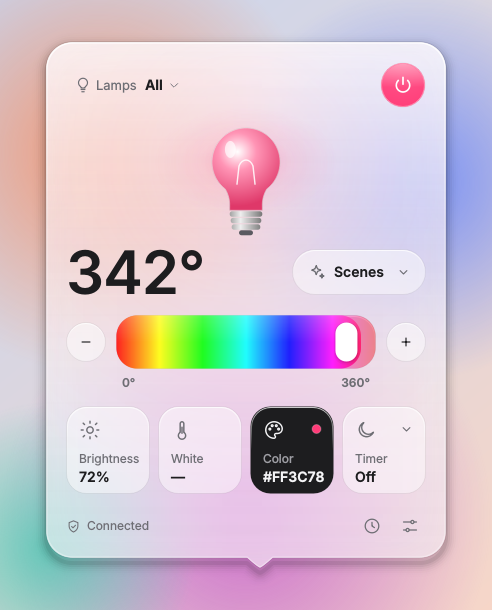
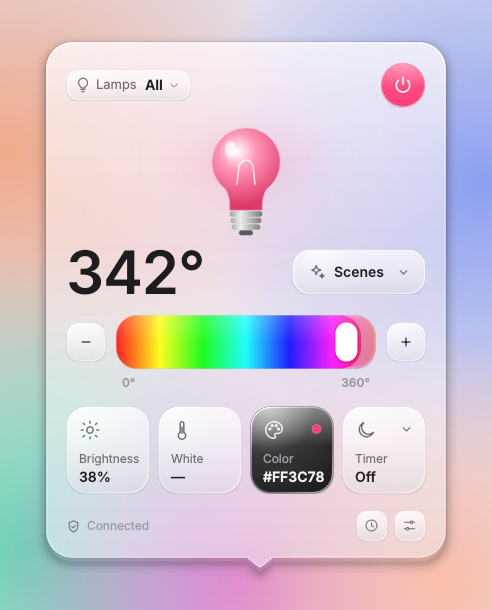
Botões de vidro líquido e correção da repintura do painel
- Botões viram quadrados de cantos arredondados com visual de vidro líquido
  (reflexo especular, sombra interna, borda iluminada na diagonal): −/+, Cenas,
  seletor de lâmpadas, ícones do rodapé e cards de modo. O liga/desliga continua redondo.
- CircleButton vira SquareButton; novas cores CARD_SPEC e CARD_SHADE no tema.
- Painel: limpa a área antes de pintar (repinturas parciais somavam vidro
  translúcido e deixavam retângulos escuros/furos na aba de cores), fundo
  desfocado opaco e margem de captura maior que o desfoque.
- BulbView e PowerButton não repintam quando o estado não mudou.
- Screenshots do README regenerados. Correção do Windows não testada aqui.

Claude-Session: https://claude.ai/code/session_01DqCb28tFSMJtDtkHMxVeCV

diff --git a/lampdesk/ui/widgets.py b/lampdesk/ui/widgets.py
@@ -36,24 +36,63 @@ def _painter(w) -> QPainter:
 
 def paint_glass(p: QPainter, path: QPainterPath, rect: QRectF, fill: QColor, border: QColor = None,
                 rim: QColor = None):
-    """Cápsula de vidro: preenchimento translúcido, contorno fino e borda iluminada no topo."""
-    p.setPen(QPen(border or theme.CARD_BORDER, 1))
+    """Vidro líquido: corpo translúcido, reflexo especular, sombra interna e borda iluminada.
+
+    A luz vem do canto superior esquerdo: a borda brilha ali e, mais fraca, no canto oposto,
+    como nos controles do iOS. Tudo é translúcido para o fundo desfocado aparecer por baixo.
+    """
+    spec, shade = theme.CARD_SPEC, theme.CARD_SHADE
+    p.save()
+    p.setPen(Qt.PenStyle.NoPen)
+
+    # sombra de contato, só do lado de fora (o corpo é translúcido e não pode escurecer)
+    around = QPainterPath()
+    around.addRect(rect.adjusted(-8, -8, 8, 10))
+    p.setClipPath(around.subtracted(path))
+    for dy, k in ((1.0, 0.55), (3.0, 0.28)):
+        p.setBrush(with_alpha(theme.SHADOW, theme.SHADOW.alphaF() * k))
+        p.drawPath(path.translated(0, dy))
+    p.setClipping(False)
+
     p.setBrush(fill)
     p.drawPath(path)
-    rim = rim or theme.CARD_RIM
-    g = QLinearGradient(rect.topLeft(), rect.bottomLeft())
-    g.setColorAt(0, rim)
-    g.setColorAt(0.5, with_alpha(rim, 0))
-    p.setPen(QPen(QBrush(g), 1))
-    p.setBrush(Qt.BrushStyle.NoBrush)
-    s = (rect.width() - 2) / rect.width() if rect.width() > 2 else 1
-    inner = QPainterPath(path)
-    c = rect.center()
+
     p.save()
+    p.setClipPath(path)
+    body = QLinearGradient(rect.topLeft(), rect.bottomLeft())  # luz em cima, sombra embaixo
+    body.setColorAt(0, with_alpha(spec, spec.alphaF() * 0.6))
+    body.setColorAt(0.45, with_alpha(spec, 0))
+    body.setColorAt(1, with_alpha(shade, shade.alphaF() * 0.7))
+    p.setBrush(QBrush(body))
+    p.drawPath(path)
+    glint = QRadialGradient(QPointF(rect.left() + rect.width() * 0.22, rect.top()), min(rect.width(), rect.height()) * 1.15)
+    glint.setColorAt(0, spec)
+    glint.setColorAt(0.5, with_alpha(spec, spec.alphaF() * 0.18))
+    glint.setColorAt(1, with_alpha(spec, 0))
+    p.setBrush(QBrush(glint))
+    p.drawPath(path)
+    p.setBrush(Qt.BrushStyle.NoBrush)  # brilho de refração rente à borda
+    p.setPen(QPen(with_alpha(spec, spec.alphaF() * 0.4), 3))
+    p.drawPath(path)
+    p.restore()
+
+    p.setBrush(Qt.BrushStyle.NoBrush)
+    p.setPen(QPen(border or theme.CARD_BORDER, 1))
+    p.drawPath(path)
+
+    rim = rim or theme.CARD_RIM
+    g = QLinearGradient(rect.topLeft(), rect.bottomRight())
+    g.setColorAt(0, rim)
+    g.setColorAt(0.3, with_alpha(rim, rim.alphaF() * 0.22))
+    g.setColorAt(0.7, with_alpha(rim, rim.alphaF() * 0.16))
+    g.setColorAt(1, with_alpha(rim, rim.alphaF() * 0.7))
+    p.setPen(QPen(QBrush(g), 1.2))
+    c = rect.center()
     p.translate(c)
-    p.scale(s, (rect.height() - 2) / rect.height() if rect.height() > 2 else 1)
+    p.scale((rect.width() - 2) / rect.width() if rect.width() > 2 else 1,
+            (rect.height() - 2) / rect.height() if rect.height() > 2 else 1)
     p.translate(-c)
-    p.drawPath(inner)
+    p.drawPath(path)
     p.restore()
 
 
@@ -153,8 +192,8 @@ class _HoverButton(QAbstractButton):
         return p
 
 
-class CircleButton(_HoverButton):
-    """Botão redondo com ícone (−, +)."""
+class SquareButton(_HoverButton):
+    """Botão de vidro quadrado, de cantos arredondados, com ícone (−, +)."""
 
     def __init__(self, icon_name: str, size: int = 40, parent=None):
         super().__init__(parent)
@@ -167,7 +206,7 @@ class CircleButton(_HoverButton):
     def paintEvent(self, _):
         p = self._begin()
         r = QRectF(self.rect()).adjusted(0.5, 0.5, -0.5, -0.5)
-        paint_glass(p, ellipse(r), r, self._fill())
+        paint_glass(p, rounded(r, r.width() * 0.34), r, self._fill())
         s = r.width() * 0.4
         icons.paint(p, self.icon_name, QRectF(r.center().x() - s / 2, r.center().y() - s / 2, s, s),
                     theme.TEXT if self.isEnabled() else theme.DIM, 1.8)
@@ -184,6 +223,8 @@ class PowerButton(_HoverButton):
         self._on = Fader(self, 0, 260)
 
     def set_state(self, on: bool, accent: QColor):
+        if (on, QColor(accent).rgba()) == (self.on, self.accent.rgba()):
+            return
         self.on, self.accent = on, QColor(accent)
         self._on.to(1 if on else 0)
         self.update()
@@ -219,7 +260,7 @@ class PowerButton(_HoverButton):
 
 
 class Pill(_HoverButton):
-    """Cápsula 'Cenas ▾'."""
+    """Botão de vidro 'Cenas ▾'."""
 
     def __init__(self, icon_name: str, parent=None):
         super().__init__(parent)
@@ -237,7 +278,7 @@ class Pill(_HoverButton):
     def paintEvent(self, _):
         p = self._begin()
         r = QRectF(self.rect()).adjusted(0.5, 0.5, -0.5, -0.5)
-        paint_glass(p, rounded(r, r.height() / 2), r, self._fill())
+        paint_glass(p, rounded(r, 17), r, self._fill())
         icons.paint(p, self.icon_name, QRectF(16, r.center().y() - 9, 18, 18), theme.MUTED)
         p.setFont(theme.font(13.5, QFont.Weight.DemiBold))
         p.setPen(theme.TEXT)
@@ -300,7 +341,7 @@ class Tile(_HoverButton):
 
 
 class HeaderSelector(_HoverButton):
-    """'Lâmpada  Sala ▾' no canto superior esquerdo."""
+    """'Lâmpada  Sala ▾' no canto superior esquerdo (vidro, como os demais botões)."""
 
     def __init__(self, parent=None):
         super().__init__(parent)
@@ -322,11 +363,8 @@ class HeaderSelector(_HoverButton):
 
     def paintEvent(self, _):
         p = self._begin()
-        r = QRectF(self.rect())
-        if self._hover.value > 0:
-            p.setPen(Qt.PenStyle.NoPen)
-            p.setBrush(with_alpha(theme.HOVER, theme.HOVER.alphaF() * self._hover.value))
-            p.drawRoundedRect(r, r.height() / 2, r.height() / 2)
+        r = QRectF(self.rect()).adjusted(0.5, 0.5, -0.5, -0.5)
+        paint_glass(p, rounded(r, 12), r, self._fill())
         icons.paint(p, "bulb", QRectF(8, r.center().y() - 9, 18, 18), theme.MUTED, 1.6)
         x = 30.0
         p.setFont(theme.font(13))
@@ -343,7 +381,7 @@ class HeaderSelector(_HoverButton):
 
 
 class IconButton(_HoverButton):
-    """Ícone discreto do rodapé (rotinas, configurações)."""
+    """Botão de vidro quadrado pequeno do rodapé (rotinas, configurações)."""
 
     def __init__(self, icon_name: str, size: int = 32, parent=None):
         super().__init__(parent)
@@ -352,13 +390,10 @@ class IconButton(_HoverButton):
 
     def paintEvent(self, _):
         p = self._begin()
-        r = QRectF(self.rect())
+        r = QRectF(self.rect()).adjusted(0.5, 0.5, -0.5, -0.5)
         h = self._hover.value
-        if h > 0:
-            p.setPen(Qt.PenStyle.NoPen)
-            p.setBrush(with_alpha(theme.HOVER, theme.HOVER.alphaF() * h))
-            p.drawEllipse(r)
-        s = r.width() * 0.6
+        paint_glass(p, rounded(r, r.width() * 0.34), r, self._fill())
+        s = r.width() * 0.5
         icons.paint(p, self.icon_name, QRectF((r.width() - s) / 2, (r.height() - s) / 2, s, s),
                     mix(theme.MUTED, theme.TEXT, h), 1.6)
 
@@ -519,8 +554,13 @@ class BulbView(QWidget):
         self.color = QColor(255, 190, 110)
         self._on = Fader(self, 0, 320)
         self._level = Fader(self, 1.0, 240)
+        self._key = None
 
     def set_state(self, on: bool, color: QColor, brightness: int):
+        key = (on, QColor(color).rgba(), brightness)
+        if key == self._key:  # o painel reenvia o estado a cada notificação; não repinte à toa
+            return
+        self._key = key
         self.on, self.color = on, QColor(color)
         self._on.to(1 if on else 0)
         self._level.to(0.35 + 0.65 * max(0, min(100, brightness)) / 100)

diff --git a/lampdesk/ui/popup.py b/lampdesk/ui/popup.py
@@ -12,7 +12,7 @@ from ..i18n import tr
 from ..lamp import LampState, display_rgb, rgb_from_hue
 from . import glass, icons, theme
 from .tray import style_menu
-from .widgets import BigSlider, BulbView, CircleButton, Fader, HeaderSelector, IconButton, Pill, PowerButton, Tile
+from .widgets import BigSlider, BulbView, Fader, HeaderSelector, IconButton, Pill, PowerButton, SquareButton, Tile
 
 WIDTH = 400
 SHADOW = 22
@@ -130,8 +130,8 @@ class Popup(QWidget):
 
         srow = QHBoxLayout()
         srow.setSpacing(10)
-        self.minus = CircleButton("minus")
-        self.plus = CircleButton("plus")
+        self.minus = SquareButton("minus")
+        self.plus = SquareButton("plus")
         self.slider = BigSlider()
         self.minus.clicked.connect(lambda: self.slider.step(-self._step()))
         self.plus.clicked.connect(lambda: self.slider.step(self._step()))
@@ -508,9 +508,14 @@ class Popup(QWidget):
         tri.closeSubpath()
         return path.united(tri)
 
-    def paintEvent(self, _):
+    def paintEvent(self, e):
         p = QPainter(self)
         p.setRenderHint(QPainter.RenderHint.Antialiasing)
+        # repinturas parciais (um filho animando) não podem somar vidro translúcido sobre o que já estava
+        # no buffer: limpa a área antes, senão surgem retângulos mais escuros ou furos que mostram a tela
+        p.setCompositionMode(QPainter.CompositionMode.CompositionMode_Source)
+        p.fillRect(e.rect(), Qt.GlobalColor.transparent)
+        p.setCompositionMode(QPainter.CompositionMode.CompositionMode_SourceOver)
         path = self._panel_path()
         p.setBrush(Qt.BrushStyle.NoBrush)
         outside = QPainterPath()

diff --git a/lampdesk/ui/theme.py b/lampdesk/ui/theme.py
@@ -26,7 +26,9 @@ _PALETTES = {
         CARD_ACTIVE=QColor(255, 255, 255, 38),
         CARD_BORDER=QColor(255, 255, 255, 22),
         CARD_BORDER_ACTIVE=QColor(255, 255, 255, 64),
-        CARD_RIM=QColor(255, 255, 255, 34),
+        CARD_RIM=QColor(255, 255, 255, 150),  # borda iluminada do vidro líquido (cantos)
+        CARD_SPEC=QColor(255, 255, 255, 46),  # reflexo especular no topo
+        CARD_SHADE=QColor(0, 0, 0, 52),       # sombra interna embaixo
         HOVER=QColor(255, 255, 255, 18),
         TRACK=QColor(255, 255, 255, 16),
         HANDLE=QColor(250, 250, 252),
@@ -62,7 +64,9 @@ _PALETTES = {
         CARD_ACTIVE=QColor(255, 255, 255, 240),
         CARD_BORDER=QColor(0, 0, 0, 16),
         CARD_BORDER_ACTIVE=QColor(0, 0, 0, 34),
-        CARD_RIM=QColor(255, 255, 255, 200),
+        CARD_RIM=QColor(255, 255, 255, 255),
+        CARD_SPEC=QColor(255, 255, 255, 170),
+        CARD_SHADE=QColor(40, 40, 70, 30),
         HOVER=QColor(0, 0, 0, 10),
         TRACK=QColor(0, 0, 0, 14),
         HANDLE=QColor(255, 255, 255),
@@ -124,6 +128,7 @@ TRANSPARENCY = True  # False = "Reduzir transparência" (sem desfoque, sem Mica)
 # preenchidas por apply(); declaradas para leitores e linters
 PANEL = PANEL_SOLID = SHEEN = RIM_TOP = RIM_BOTTOM = BORDER = SHADOW = QColor()
 CARD = CARD_HOVER = CARD_ACTIVE = CARD_BORDER = CARD_BORDER_ACTIVE = CARD_RIM = HOVER = QColor()
+CARD_SPEC = CARD_SHADE = QColor()
 TRACK = HANDLE = HANDLE_SHADOW = TEXT = MUTED = DIM = OK = WARN = ERROR = QColor()
 BULB_OFF_HI = BULB_OFF_LO = BULB_OFF_EDGE = INVERSE = INVERSE_TEXT = INVERSE_MUTED = QColor()
 SEGMENT = SEGMENT_SEL = QColor()

diff --git a/lampdesk/ui/glass.py b/lampdesk/ui/glass.py
@@ -22,7 +22,7 @@ log = logging.getLogger(__name__)
 SCALE = 8         # a imagem é reduzida antes de desfocar (mais rápido e mais macio)
 BLUR = 7          # raio do desfoque na imagem reduzida
 SATURATION = 1.5  # realce de cor do fundo
-MARGIN = 48       # captura além da borda para o desfoque não escurecer as beiradas
+MARGIN = 72       # captura além da borda (maior que o desfoque: BLUR * SCALE = 56) para não escurecer as beiradas
 
 
 def supported() -> bool:
@@ -116,7 +116,8 @@ def grab_backdrop(rect: QRect) -> Optional[QImage]:
         # recorta de volta para o retângulo do painel
         fx, fy = small.width() / area.width(), small.height() / area.height()
         crop = QRectF((rect.x() - area.x()) * fx, (rect.y() - area.y()) * fy, rect.width() * fx, rect.height() * fy)
-        return with_luma(small.copy(crop.toAlignedRect()))
+        # opaco: um fundo com alfa parcial deixaria a janela translúcida mostrar a tela nítida por baixo
+        return with_luma(small.copy(crop.toAlignedRect()).convertToFormat(QImage.Format.Format_RGB32))
     except Exception:  # noqa: BLE001 - sem desfoque é só menos bonito
         log.debug("Não foi possível capturar o fundo do painel", exc_info=True)
         return None

diff --git a/tests/test_ui.py b/tests/test_ui.py
@@ -66,6 +66,23 @@ def test_popup_controls(qapp, app):
     assert popup.scene_pill.text() == app.store.config.scenes[0].name
 
 
+def test_popup_glass_paints_in_every_mode(qapp, app):
+    """Vidro líquido nos botões e repintura parcial do painel (aba de cores) sem erros."""
+    from PySide6.QtCore import QRect
+
+    popup = app.popup
+    popup.show_at(QRect(600, 580, 20, 20))
+    for mode in ("brightness", "temperature", "hue"):
+        popup._set_mode(mode)
+        qapp.processEvents()
+        assert not popup.grab().isNull()
+    popup.bulb.update()  # repintura só da lâmpada: o painel limpa a área antes de pintar
+    qapp.processEvents()
+    key = popup.bulb._key
+    popup.bulb.set_state(*key[:1], popup.bulb.color, key[2])  # mesmo estado: não repinta nem reanima
+    assert popup.bulb._key == key
+
+
 def test_sleep_timer(qapp, app):
     svc = app.service
     svc.start_timer("*", svc.ids("*"), 30)
